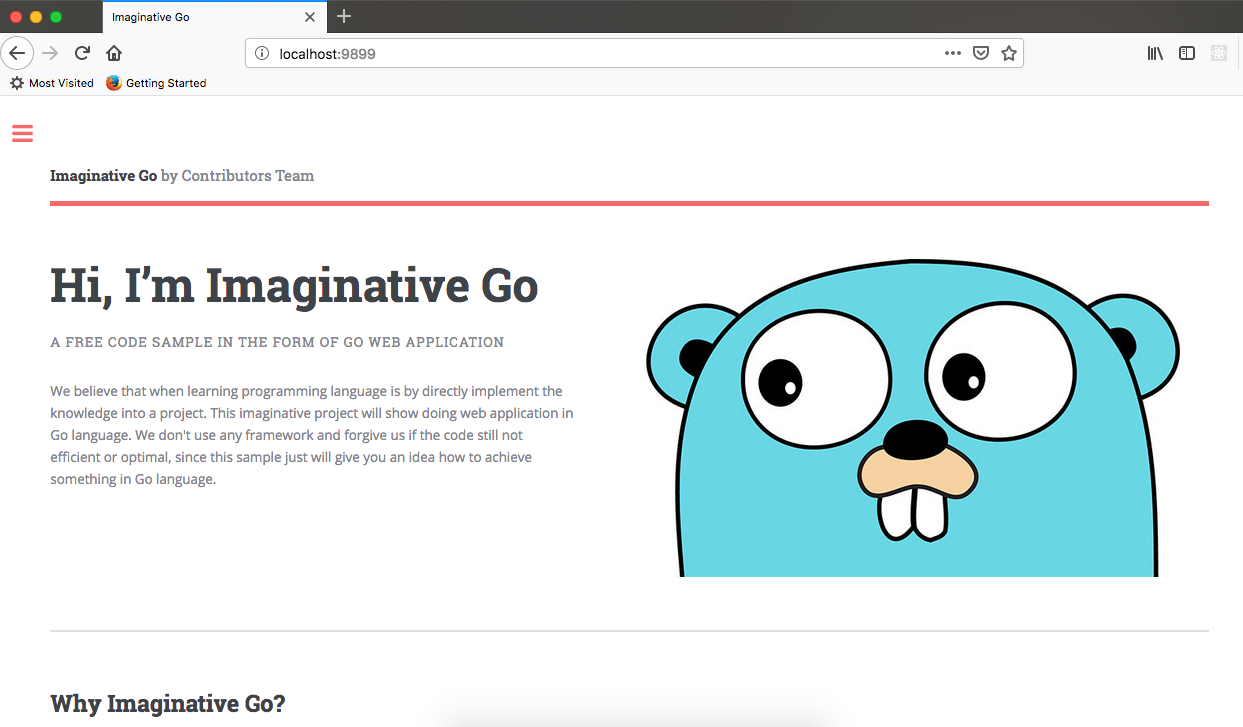
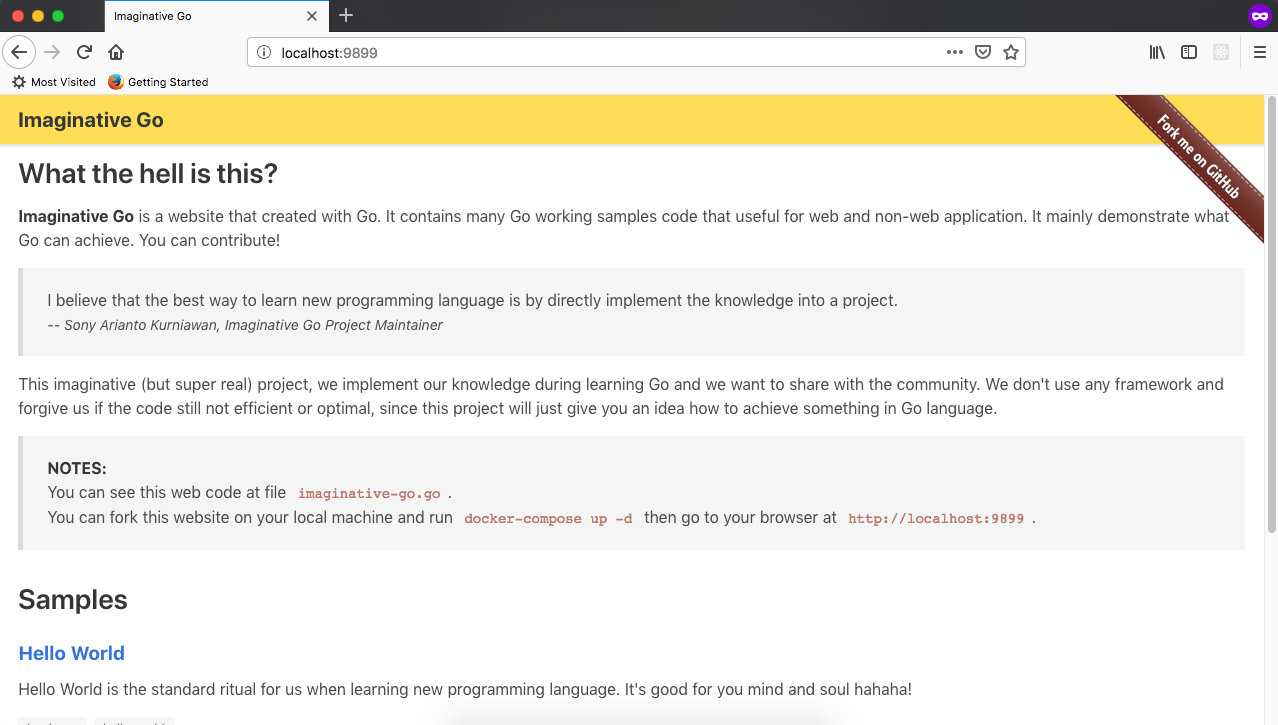
add screenshot for new layout

diff --git a/README.md b/README.md
@@ -71,8 +71,6 @@ Do you want to contribute? Just fork this repository and contribute anything you
 ## Screen Shots
 ### Home Page
 ![Imaginative Go - Screenshot 1](/assets/images/screenshot1.png?raw=true "Imaginative Go - Screenshot 1")
-### Sample Code List
-![Imaginative Go - Screenshot 2](/assets/images/screenshot2.png?raw=true "Imaginative Go - Screenshot 2")
 
 ## License
 This project is licensed under the MIT License.
